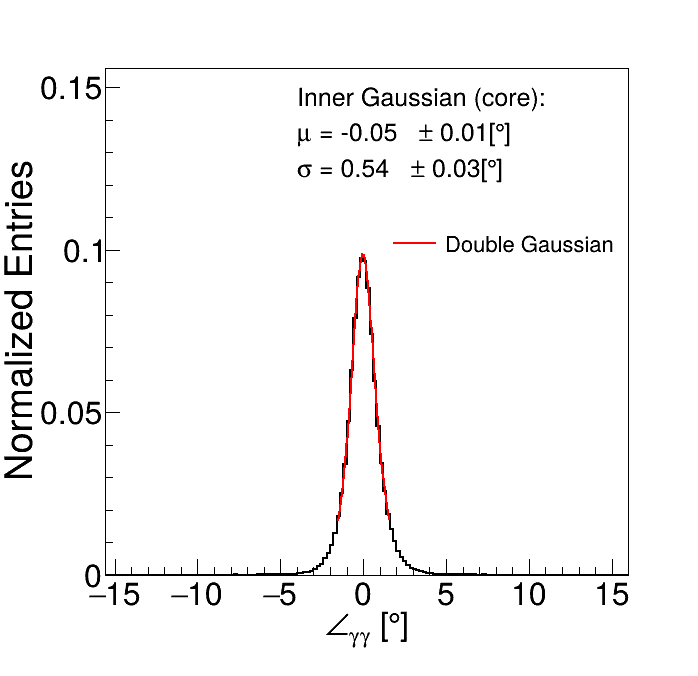
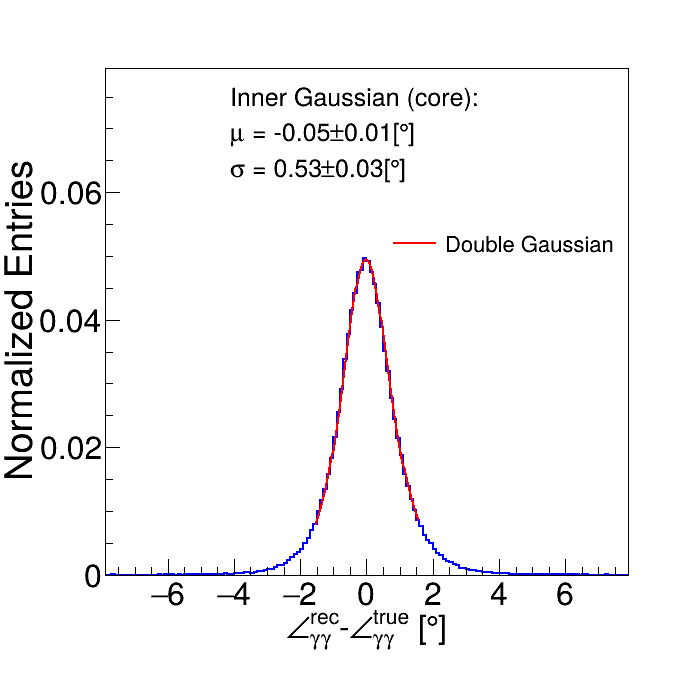
all changes

diff --git a/run_bdt/plot_resol.C b/run_bdt/plot_resol.C
@@ -25,7 +25,7 @@ void plot_resol() {
   if (!ttree) { std::cerr << "No such tree.\n"; return; }
 
   // Histogram for difference: (reco – true) mass
-  TH1D *h_diff = new TH1D("h_diff", "", bin_size, -50, 50);
+  TH1D *h_diff = new TH1D("h_diff", "", bin_size, XMIN, XMAX);
   h_diff->SetMarkerStyle(21);
   h_diff->SetMarkerSize(0.7);
   h_diff->SetLineColor(1);
@@ -45,6 +45,7 @@ void plot_resol() {
     if (recon_indx_bdt == 2 && bkg_indx == 1) {
       var_diff = var - var_true;
       h_diff->Fill(var_diff);
+      //cout << var_diff << endl;
     }
   }
 
@@ -58,7 +59,8 @@ void plot_resol() {
   }
 
   // Fit range: mean ± 3σ
-  double mean = h_diff->GetMean();
+  //double mean = h_diff->GetMean();
+  double mean = 0.0;
   double rms  = h_diff->GetRMS();
   double fit_min = mean - fit_factor * rms;
   double fit_max = mean + fit_factor * rms;
@@ -102,7 +104,7 @@ void plot_resol() {
     TF1 *singleGaus = new TF1("singleGaus", "gaus", fit_min, fit_max);
     singleGaus->SetParameters(peak, mean, rms * 0.7);
     singleGaus->SetParLimits(2, 0.5, 30.0);
-    singleGaus->SetLineColor(kBlue);
+    singleGaus->SetLineColor(kRed);
     singleGaus->SetLineWidth(2);
     h_diff->Fit(singleGaus, "R");
     finalFit = singleGaus;
@@ -119,6 +121,7 @@ void plot_resol() {
   double ymax = h_diff -> GetMaximum();
   
   h_diff->SetLineWidth(2);
+  h_diff->SetLineColor(4);
   h_diff->GetXaxis()->SetTitle(x_title);
   h_diff->GetYaxis()->SetTitle("Normalized Entries");
   h_diff->GetXaxis()->CenterTitle();
@@ -129,11 +132,15 @@ void plot_resol() {
   h_diff->GetYaxis()->SetLabelSize(0.05);
   h_diff->GetYaxis()->SetTitleOffset(1.3);
   h_diff->GetYaxis()->SetRangeUser(0., 1.6 * ymax);
-  h_diff->GetXaxis()->SetRangeUser(range_factor * fit_min, range_factor * fit_max); // or -50,50
+  //h_diff->GetXaxis()->SetRangeUser(range_factor * fit_min, range_factor * fit_max); // or -50,50
+  h_diff->GetXaxis()->SetRangeUser(XMIN, XMAX);   
   h_diff->GetYaxis()->SetNdivisions(505);
+  h_diff->GetXaxis()->SetNdivisions(505);
 
   h_diff->Draw("hist");
   finalFit->Draw("same");
+
+  //cout << "x range: " << range_factor * fit_min << ", " << range_factor * fit_max << endl;
 
   // ----- Extract inner (narrower) Gaussian values if double Gaussian -----
   TString line1, line2, line3;
@@ -147,8 +154,8 @@ void plot_resol() {
       double err_mean = finalFit->GetParError(1);
       double err_sigma = finalFit->GetParError(2);
       line1 = Form("Inner Gaussian (core):");
-      line2 = Form("#mu = %.2f #pm %.2f" + unit, mean_inner, err_mean);
-      line3 = Form("#sigma = %.2f #pm %.2f" + unit, sigma_inner, err_sigma);
+      line2 = Form("#mu = %.2f#pm%.2f" + unit, mean_inner, err_mean);
+      line3 = Form("#sigma = %.2f#pm%.2f" + unit, sigma_inner, err_sigma);
     } else {
       double mean_inner = finalFit->GetParameter(4);
       double sigma_inner = sigma2;
@@ -165,13 +172,13 @@ void plot_resol() {
     double err_mean = finalFit->GetParError(1);
     double err_sigma = finalFit->GetParError(2);
     line1 = Form("Gaussian fit:");
-    line2 = Form("#mu = %.2f#pm%.2f" + unit, mean_sg, err_mean);
-    line3 = Form("#sigma = %.2f#pm%.2f" + unit, sigma_sg, err_sigma);
+    line2 = Form("#mu = %.2e#pm%.2e %s", mean_sg, err_mean, unit.Data());
+    line3 = Form("#sigma = %.2e#pm%.2e %s", sigma_sg, err_sigma, unit.Data());
   }
   TString line4 = Form("#chi^{2}/NDF = %.2f", chi2ndf);
 
   // Create a transparent TPaveText
-  TPaveText *pt = new TPaveText(0.4, 0.72, 0.9, 0.88, "NDC");
+  TPaveText *pt = new TPaveText(0.3, 0.72, 0.9, 0.88, "NDC");
   pt->SetFillColor(0);
   pt->SetBorderSize(0);
   pt->SetTextAlign(12);

diff --git a/run_bdt/tree_cut_bdt.C b/run_bdt/tree_cut_bdt.C
@@ -103,10 +103,11 @@ int tree_cut_bdt() {
     // BDT‑specific variables (reco)
     double bdt_score = 0.;
     double e1_bdt = 0., e2_bdt = 0., e3_bdt = 0.;
+    double e3_bdt_true = 0.;
     double m_gg_bdt = 0., m3pi_bdt = 0.;
     double m2pi_true = 0., m3pi_true = 0.;
     double angle_pi0gam12_bdt = 0., betapi0_bdt = 0.;
-    double angle_pi0gam12_bdt_true = 0.;
+    double angle_pi0gam12_bdt_true = 0., betapi0_bdt_true = 0.;
     
     // Pull variables
     double e1_pull = 0., e2_pull = 0., e3_pull = 0.;
@@ -206,6 +207,7 @@ int tree_cut_bdt() {
         tree_tmp->Branch("Br_e1_bdt", &e1_bdt, "Br_e1_bdt/D");
         tree_tmp->Branch("Br_e2_bdt", &e2_bdt, "Br_e2_bdt/D");
         tree_tmp->Branch("Br_e3_bdt", &e3_bdt, "Br_e3_bdt/D");
+	tree_tmp->Branch("Br_e3_bdt_true", &e3_bdt_true, "Br_e3_bdt_true/D");
         tree_tmp->Branch("Br_m_gg_bdt", &m_gg_bdt, "Br_m_gg_bdt/D");
 	tree_tmp->Branch("Br_m2pi_true", &m2pi_true, "Br_m2pi_true/D");
         tree_tmp->Branch("Br_m3pi_bdt", &m3pi_bdt, "Br_m3pi_bdt/D");
@@ -213,6 +215,7 @@ int tree_cut_bdt() {
         tree_tmp->Branch("Br_angle_pi0gam12_bdt", &angle_pi0gam12_bdt, "Br_angle_pi0gam12_bdt/D");
 	tree_tmp->Branch("Br_angle_pi0gam12_bdt_true", &angle_pi0gam12_bdt_true, "Br_angle_pi0gam12_bdt_true/D");
         tree_tmp->Branch("Br_betapi0_bdt", &betapi0_bdt, "Br_betapi0_bdt/D");
+	tree_tmp->Branch("Br_betapi0_bdt_true", &betapi0_bdt_true, "Br_betapi0_bdt_true/D");
         // Pull branches
         tree_tmp->Branch("Br_e1_pull", &e1_pull, "Br_e1_pull/D");
         tree_tmp->Branch("Br_e2_pull", &e2_pull, "Br_e2_pull/D");
@@ -412,6 +415,8 @@ int tree_cut_bdt() {
         double py3_true = true_photons[result.prompt_index][2];
         double pz3_true = true_photons[result.prompt_index][3];
 
+	e3_bdt_true = e3_true;
+	
         double m_gg_true = compute_invariant_mass(result.pi0_indices[0], result.pi0_indices[1], true_photons);
         m3pi_true = compute_3pi_mass(result.pi0_indices[0], result.pi0_indices[1], true_photons, true_tracks);
         m2pi_true = compute_dipion_mass(true_tracks);
@@ -420,6 +425,9 @@ int tree_cut_bdt() {
         pi0gam1_bdt_true.SetPxPyPzE(px1_true, py1_true, pz1_true, e1_true);
         pi0gam2_bdt_true.SetPxPyPzE(px2_true, py2_true, pz2_true, e2_true);
         angle_pi0gam12_bdt_true = pi0gam1_bdt_true.Angle(pi0gam2_bdt_true.Vect()) * TMath::RadToDeg();
+
+	TLorentzVector pi0_bdt_true = pi0gam1_bdt_true + pi0gam2_bdt_true;
+        betapi0_bdt_true = (pi0_bdt_true.Vect()).Mag() / pi0_bdt_true.E();
         
         // Compute pulls
         e1_pull = e1_bdt - e1_true;

diff --git a/header_bdt/plot_resol.h b/header_bdt/plot_resol.h
@@ -1,17 +1,49 @@
+/*
+const TString var_type = "Br_e3_bdt";
+const TString var_type_true = "Br_e3_bdt_true";
+const TString unit = "[MeV]";
+const TString x_title = "E^{rec}_{#gamma}-E^{true}_{#gamma} " + unit;
+const int bin_size = 400;
+const double fit_factor = 1.0;
+const double range_factor = 5;
+const double XMIN = -50.0;
+const double XMAX = 50.0;
+*/
+
+/*
 const TString var_type = "Br_m3pi_bdt";
 const TString var_type_true = "Br_m3pi_true_bdt";
 const TString unit = "[MeV/c^{2}]";
-const TString x_title = "M_{3#pi} " + unit;
-const int bin_size = 200;
-const double fit_factor = 1.5;
-const double range_factor = 3;
+const TString x_title = "M^{rec}_{3#pi}-M^{true}_{3#pi} " + unit;
+const int bin_size = 400;
+const double fit_factor = 1.0;
+const double range_factor = 5;
+const double XMIN = -50.0;
+const double XMAX = 50.0;
+*/
 
 /*
 const TString var_type = "Br_angle_pi0gam12_bdt";
 const TString var_type_true = "Br_angle_pi0gam12_bdt_true";
 const TString unit = "[#circ]";
-const TString x_title = "#angle_{#gamma#gamma} " + unit;
-const int bin_size = 500;
+const TString x_title = "#angle^{rec}_{#gamma#gamma}-#angle^{true}_{#gamma#gamma} " + unit;
+const int bin_size = 1000;
 const double fit_factor = 1.5;
-const double range_factor = 10;
+const double range_factor = 5;
+const double XMIN = -50.0;
+const double XMAX = 50.0;
 */
+
+const TString var_type = "Br_betapi0_bdt";
+const TString var_type_true = "Br_betapi0_bdt_true";
+const TString unit = "";
+const TString x_title = "#beta^{rec}_{#pi}-#beta^{true}_{#pi} " + unit;
+const int bin_size = 200;
+const double fit_factor = 0.5;
+const double range_factor = 10;
+const double XMIN = -0.05;
+const double XMAX = 0.05;
+
+
+
+
